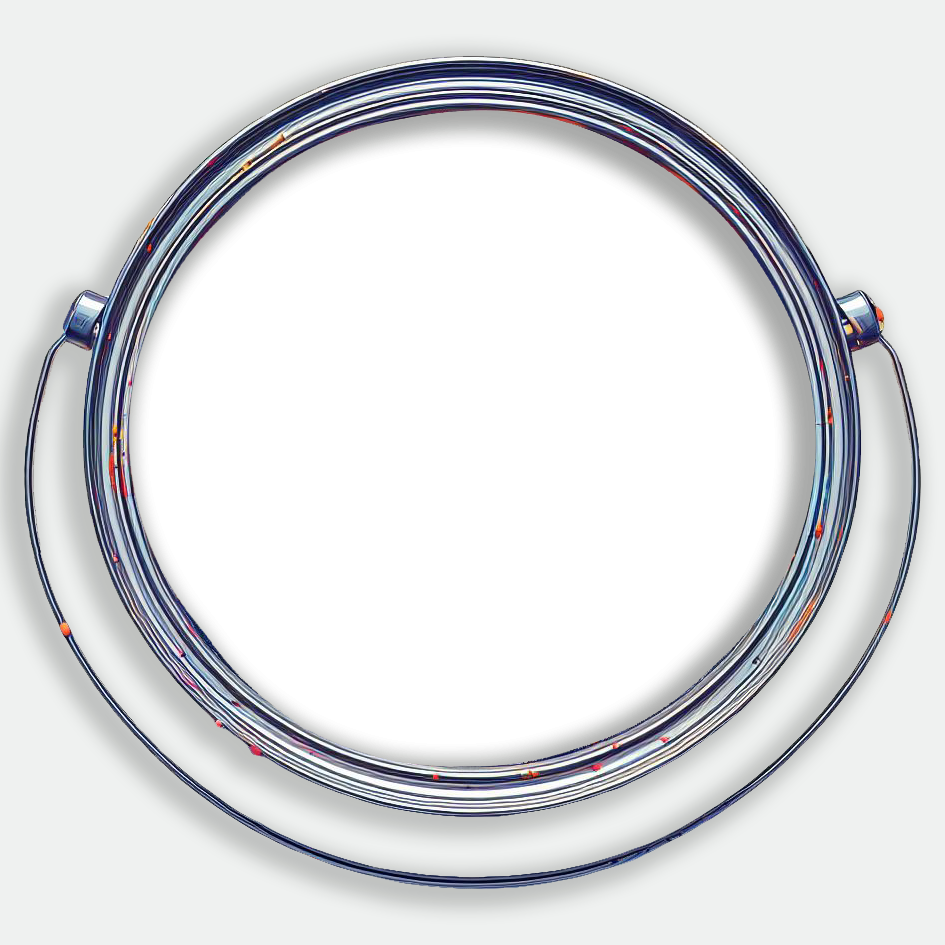
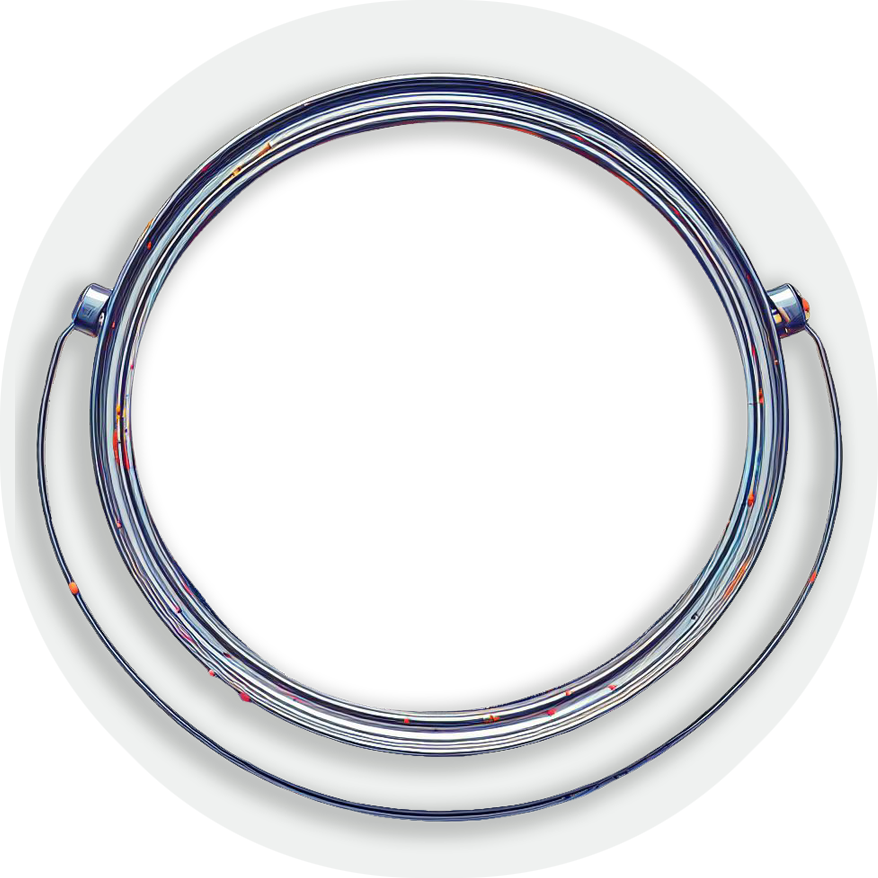
Create time Bar

Changed region(s): [[0.0, 0.0308, 0.9841, 0.9533]]

diff --git a/src/pages/Game/styles.ts b/src/pages/Game/styles.ts
@@ -13,7 +13,7 @@ export const Container = styled.div`
 `;
 
 export const ColorsHistory = styled.div`
-  width: 25%;
+  width: 30%;
   text-align: center;
   padding: 1rem;
   background-color: var(--dark-blue);
@@ -52,15 +52,15 @@ export const Game = styled.div`
   width: 50%;
   display: grid;
   grid-template-columns: repeat(3, 1fr);
-  grid-template-rows: 1fr 1fr 4fr 1fr;
-  padding: 2rem;
+  grid-template-rows: 1fr 1fr 4.5fr 0.5fr;
+  padding: 1rem 0;
 
   > button {
     background-color: var(--dark-blue);
     color: var(--white);
     font-weight: bold;
     border-radius: 1rem;
-    height: 4rem;
+    height: 3rem;
     letter-spacing: 0.1rem;
   }
 `;
@@ -123,25 +123,19 @@ export const Title = styled.section`
 export const Color = styled.section<IStyleProps>`
   grid-area: 3/1/4/4;
   display: flex;
-  align-items: center;
+  flex-direction: column;
   justify-content: center;
+  align-items: center;
+  position: relative;
+  margin: 1rem 0;
 
-  > div {
+  div:last-of-type {
     background-color: ${(props) => props.background};
-    border-radius: '50% 50%';
-  }
-
-  div,
-  img {
-    width: 20rem;
-    height: 20rem;
-    position: relative;
-    top: 0rem;
-    left: 0rem;
-  }
-
-  img {
-    z-index: 10;
+    border-radius: 50%;
+    width: 16rem;
+    height: 16rem;
+    position: absolute;
+    z-index: 0;
   }
 `;
 

diff --git a/src/pages/Game/index.tsx b/src/pages/Game/index.tsx
@@ -2,10 +2,10 @@ import { useEffect, useLayoutEffect, useState } from 'react';
 import { useNavigate } from 'react-router-dom';
 import { useGame } from 'src/contexts/gameContext';
 import useCountdown from 'src/hooks/useCountdown';
+import TimeBar from 'src/components/TimeBar';
 import Name from '../../images/name2.png';
 import RestartImg from '../../images/restart.png';
 import Clear from '../../images/clear.png';
-import Paint from '../../images/round.png';
 import Back from '../../images/back.png';
 import History from '../../components/History';
 import * as St from './styles';
@@ -92,8 +92,6 @@ export default function Game() {
     }
   };
 
-  console.log({ buttonDisabled, generalTime, partialTime });
-
   return (
     <St.Container>
       <St.ColorsHistory>
@@ -131,10 +129,9 @@ export default function Game() {
           </section>
           <p>Pontuação</p>
         </St.Score>
-        <St.Color background={correctColor}>
-          <div>
-            <img src={Paint} alt="paint" />
-          </div>
+        <St.Color background={generalTime !== 0 ? correctColor : 'transparent'}>
+          <TimeBar percentage={(generalTime / 30) * 100} />
+          <div></div>
         </St.Color>
         <button
           disabled={buttonDisabled}

diff --git a/src/components/TimeBar/index.tsx b/src/components/TimeBar/index.tsx
@@ -1,0 +1,31 @@
+import * as St from './styles';
+
+interface Iprops {
+  percentage: number;
+}
+
+export default function TimeBar({ percentage }: Iprops) {
+  const radius = 134;
+  const dashArray = radius * Math.PI * 2;
+  const dashOffset = dashArray - (dashArray * percentage) / 100;
+
+  return (
+    <St.Container
+      width="18.5rem"
+      height="18.5rem"
+      viewBox="0 0 18.5rem 18.5rem"
+      percentage={percentage}
+      dashArray={dashArray}
+      dashOffset={dashOffset}
+    >
+      <circle cx="9.25rem" cy="9.25rem" strokeWidth="1.8rem" r={radius} />
+      <circle
+        cx="9.25rem"
+        cy="9.25rem"
+        strokeWidth="1.8rem"
+        r={radius}
+        transform="rotate(272 148 148)"
+      ></circle>
+    </St.Container>
+  );
+}

diff --git a/src/components/TimeBar/styles.ts b/src/components/TimeBar/styles.ts
@@ -1,0 +1,28 @@
+import styled from 'styled-components';
+
+interface IStyleProps {
+  percentage: number;
+  dashArray: number;
+  dashOffset: number;
+}
+
+export const Container = styled.svg<IStyleProps>`
+  position: absolute;
+  z-index: 1;
+  border-radius: 50%;
+  border: 1px solid #0000003d;
+  -webkit-box-shadow: -7px 6px 12px -9px rgba(0, 0, 0, 0.75);
+  -moz-box-shadow: -7px 6px 12px -9px rgba(0, 0, 0, 0.75);
+  box-shadow: -7px 6px 12px -9px rgba(0, 0, 0, 0.75);
+
+  circle {
+    fill: none;
+    stroke: var(--light-blue);
+  }
+
+  circle:last-of-type {
+    stroke: var(--dark-blue);
+    stroke-dasharray: ${(props) => props.dashArray};
+    stroke-dashoffset: ${(props) => props.dashOffset};
+  }
+`;

diff --git a/src/globalStyle.ts b/src/globalStyle.ts
@@ -9,9 +9,10 @@ export const GlobalStyle = createGlobalStyle`
 
   :root{
     --white: #eff1f0;
+    --light-blue: #cdd5ff;
     --blue: #201454;
-    --violet: #511970;
     --dark-blue: #1c1f30;
+    --violet: #511970;
   }
 
   body {
@@ -29,11 +30,11 @@ export const GlobalStyle = createGlobalStyle`
     padding: 1rem;
     margin: 0.25rem auto;
 
-    &:hover {
+    &:hover:not([disabled]) {
       transform: scale(1.1);
     }
 
-    &:active {
+    &:active:not([disabled]) {
       transform: scale(0.9);
     }
   }
